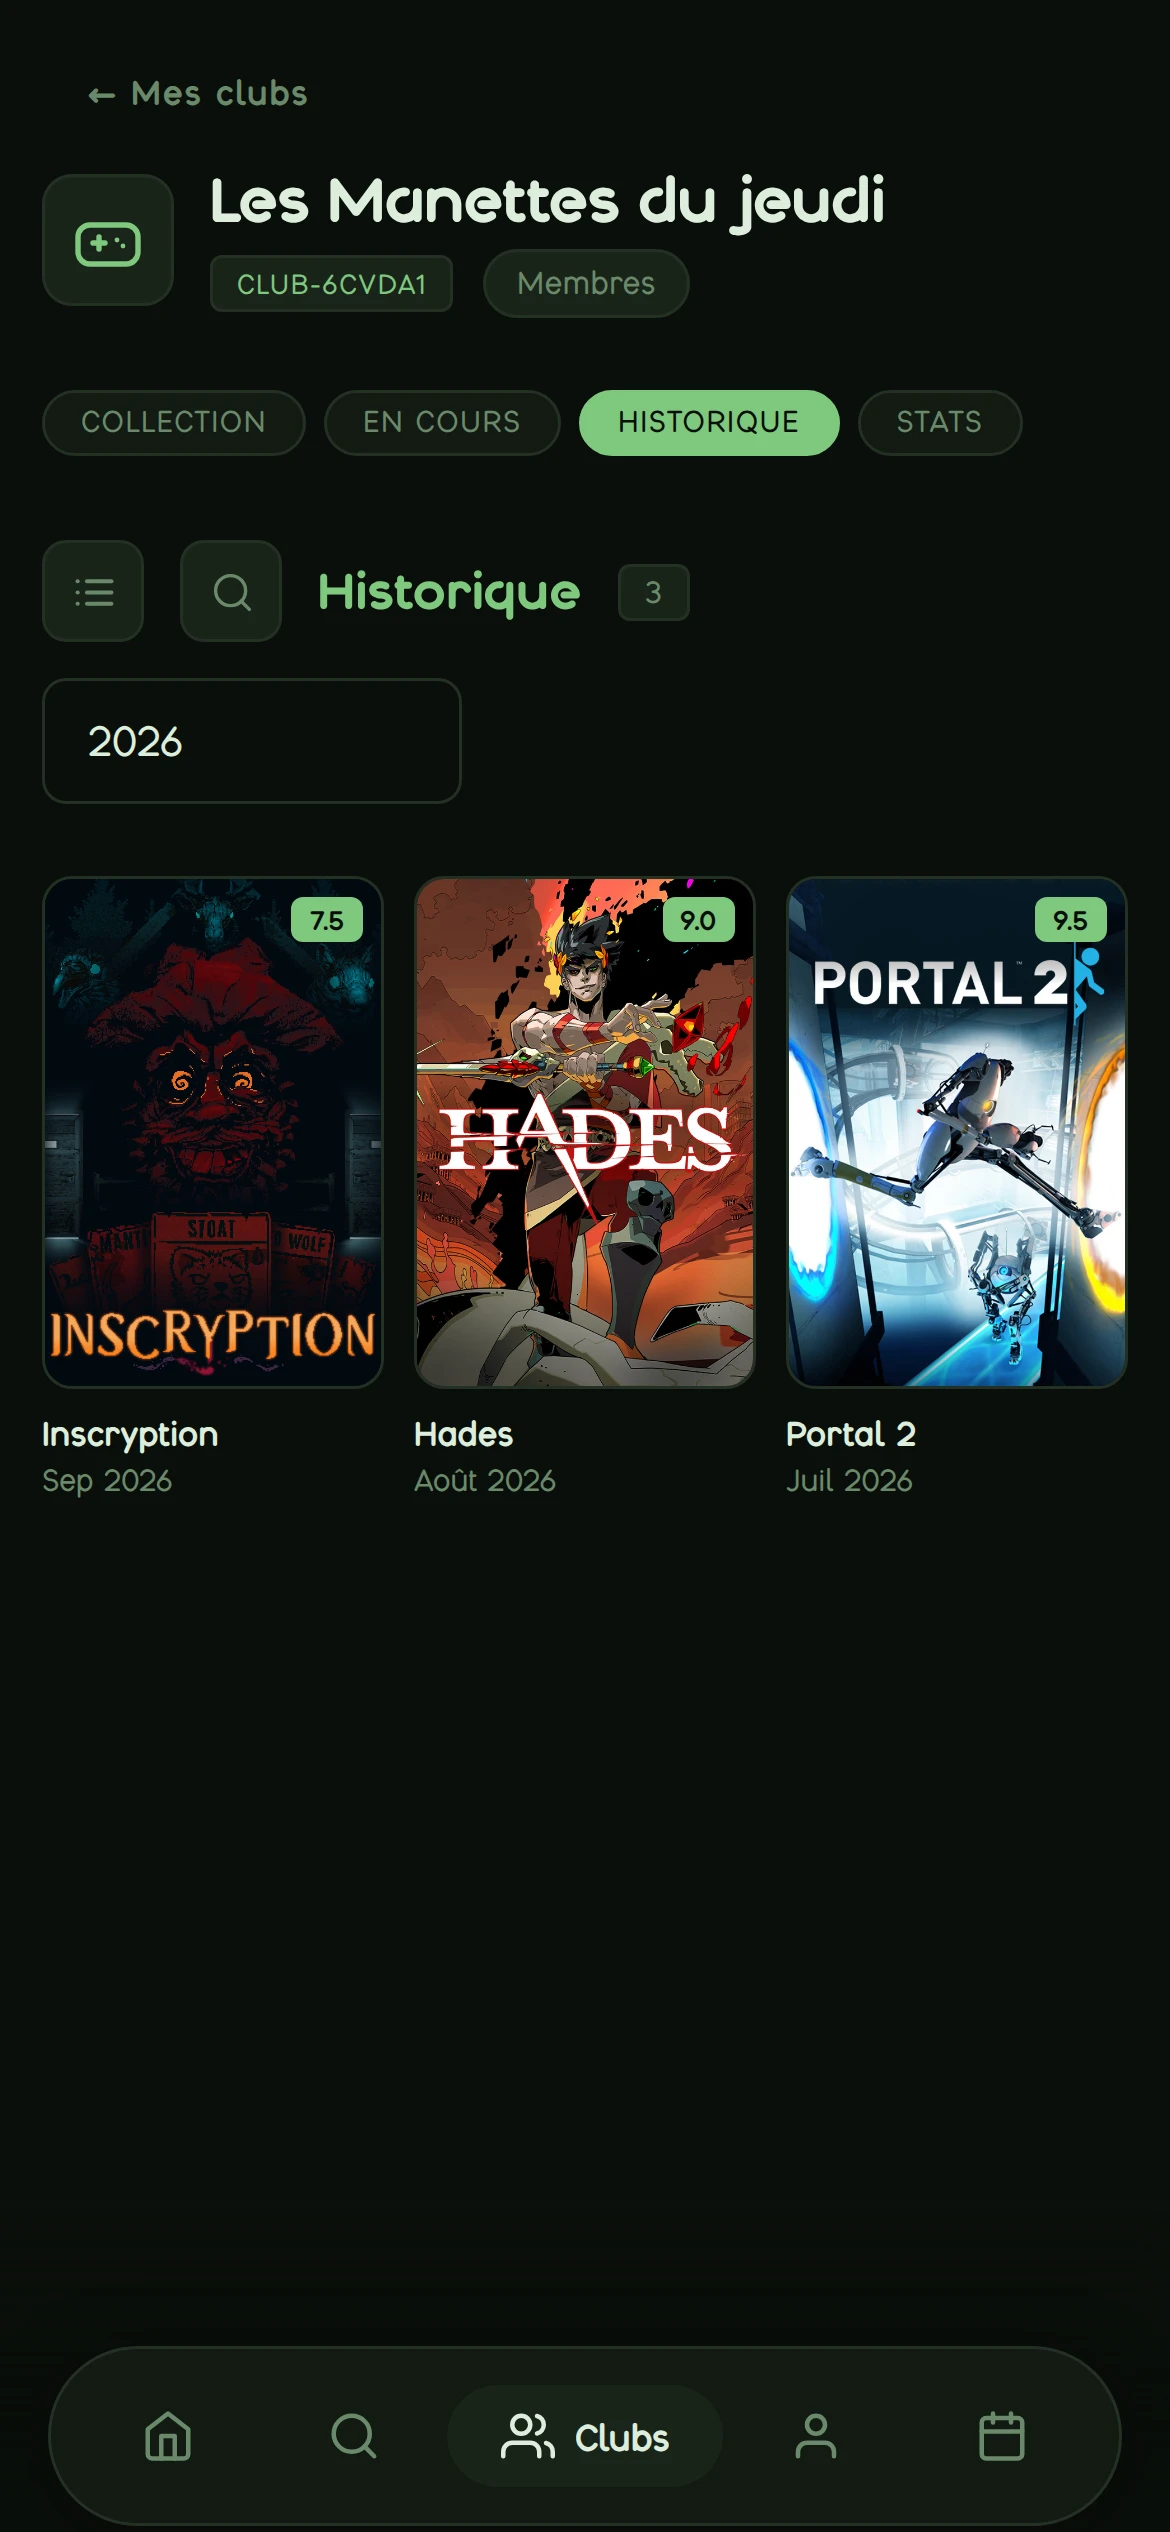
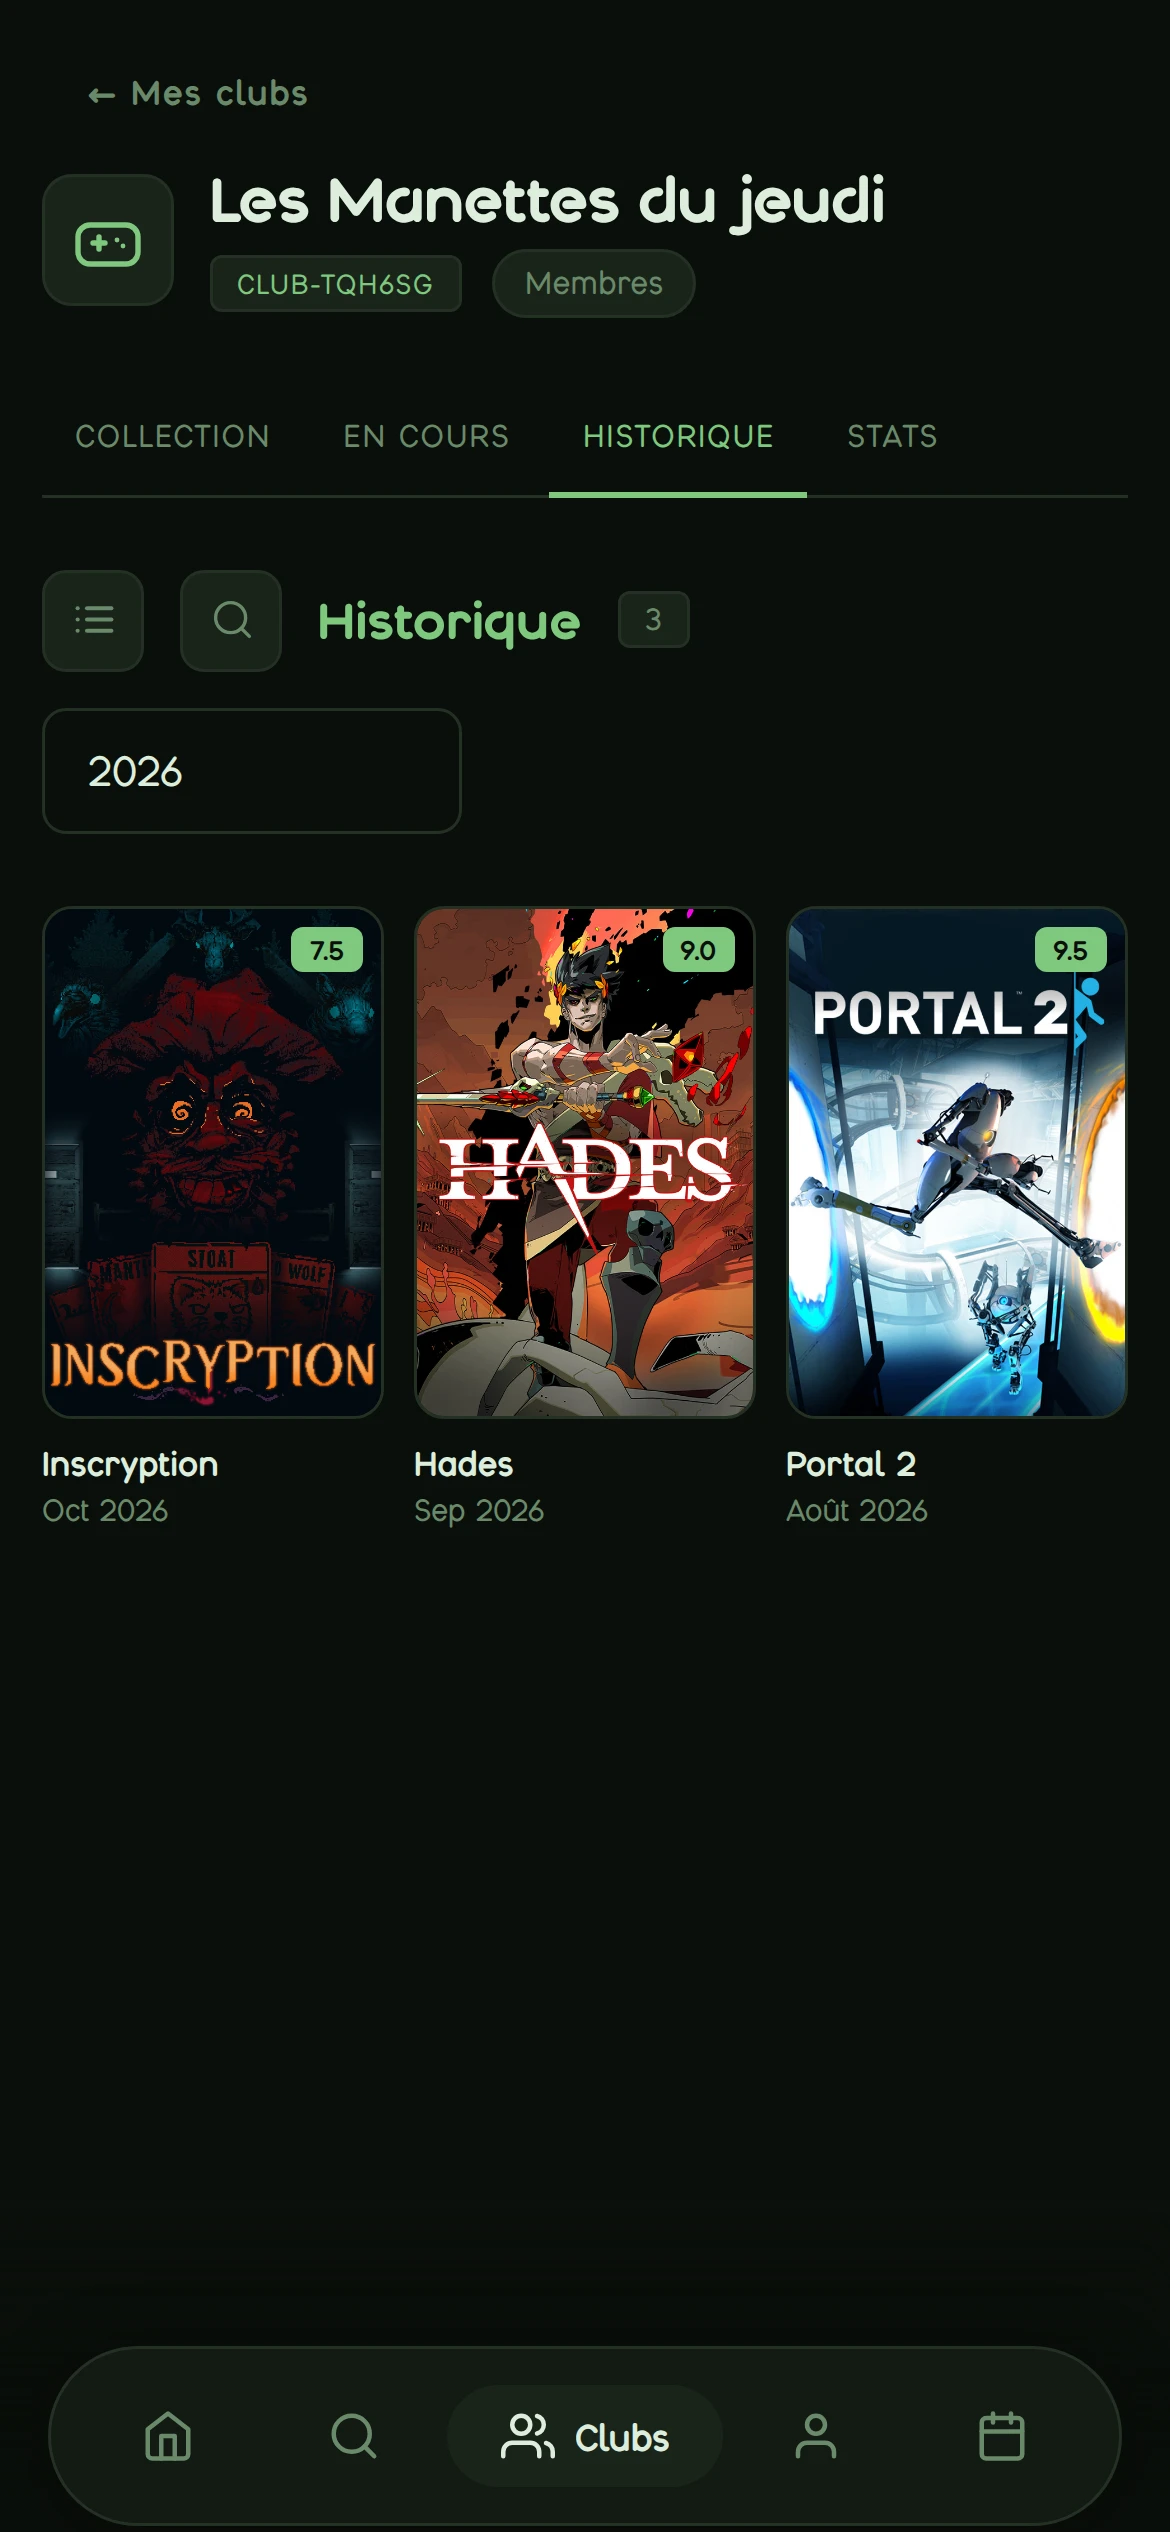
Captures à jour : la nouvelle interface
Toutes les captures refaites avec la refonte du 31/10/2026 (barre latérale,
en-têtes de profil, onglets, stats, calendrier des sorties, mobile).

diff --git a/README.md b/README.md
@@ -19,7 +19,7 @@ Une application imaginée et dirigée par OddReak, **codée avec [Claude](https:
 
 <br>
 
-<img src="images/accueil.webp" alt="L'accueil de Clubs Club : les œuvres en cours, la prochaine réunion du club, l'activité des amis et le calendrier des sorties" width="920">
+<img src="images/accueil.webp" alt="L'accueil de Clubs Club : les œuvres en cours, l'activité des amis et le calendrier des prochaines sorties" width="920">
 
 </div>
 
@@ -53,7 +53,7 @@ Clubs Club réunit tout. Chaque œuvre a sa fiche, son statut, votre note et vot
       Un jeu, un album, un film, une série, un livre, ou un ami : une seule barre. Synopsis, casting, éditions françaises des livres, et ce que vous possédez déjà est signalé.
     </td>
     <td valign="top">
-      <img src="images/recap.webp" alt="Le récap de la semaine : films vus, épisodes, albums écoutés">
+      <img src="images/recap.webp" alt="Le récap du mois : films vus et temps passé, épisodes, albums écoutés">
       <h3>Votre récap</h3>
       Chaque semaine et chaque mois, ce que vous avez vu, écouté, lu et joué. Et en fin d'année, votre bilan complet à parcourir comme une histoire.
     </td>
